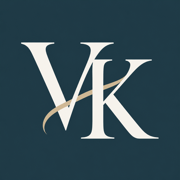
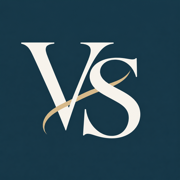
Renamed the bride's name from Krystel to Sam

Changed region(s): [[0.4444, 0.3056, 0.8889, 0.7778]]

diff --git a/app/api/admin/rsvps/route.ts b/app/api/admin/rsvps/route.ts
@@ -11,7 +11,7 @@ export async function GET(req: Request) {
     const pageSize = 500;
     // Fetch only the fields used by the dashboard and exports.
     for (let offset = 0; ; offset += pageSize) {
-      const { data, error } = await getSupabase().from("vincent_krystel")
+      const { data, error } = await getSupabase().from("vincent_sam")
         .select("id,name,message,attending,created_at")
         .order("created_at", { ascending: false }).order("id", { ascending: false })
         .range(offset, offset + pageSize - 1);
@@ -31,7 +31,7 @@ export async function DELETE(req: Request) {
     if (!isRecord(body) || typeof body.id !== "string" || !/^[0-9a-f]{8}-[0-9a-f]{4}-[1-5][0-9a-f]{3}-[89ab][0-9a-f]{3}-[0-9a-f]{12}$/i.test(body.id)) {
       throw new HttpError(400, "Invalid RSVP id");
     }
-    const { data, error } = await getSupabase().from("vincent_krystel").delete().eq("id", body.id).select("id").maybeSingle();
+    const { data, error } = await getSupabase().from("vincent_sam").delete().eq("id", body.id).select("id").maybeSingle();
     if (error) throw error;
     if (!data) return json({ error: "RSVP not found" }, 404);
     return json({ ok: true });

diff --git a/lib/good-to-know.ts b/lib/good-to-know.ts
@@ -6,10 +6,6 @@ export const GOOD_TO_KNOW_NOTES = [
     body: "We have intentionally kept our guest list intimate so that we can celebrate with the people closest to us. Please join us only with the guest named on your invitation.",
   },
   {
-    title: "Can children attend?",
-    body: "We love your little ones, but our celebration will be adults-only, with the exception of immediate family children. Thank you for understanding and helping us keep the day relaxed and intimate.",
-  },
-  {
     title: "What about gifts?",
     body: "Having you with us is the greatest gift. If you would like to bless us as we begin married life, a monetary gift would be warmly appreciated—but please know that your presence means the most.",
   },

diff --git a/lib/event.ts b/lib/event.ts
@@ -6,10 +6,10 @@ const timeZone = "Asia/Manila";
 const formatDate = (options: Intl.DateTimeFormatOptions) => new Intl.DateTimeFormat("en-US", { timeZone, ...options }).format(eventDate);
 
 export const EVENT = {
-  honoree: "Vincent & Krystel",
+  honoree: "Vincent & Sam",
   groom: "Vincent",
-  bride: "Krystel",
-  initials: "V & K",
+  bride: "Sam",
+  initials: "V & S",
   dateLong: formatDate({ weekday: "long", month: "long", day: "numeric", year: "numeric" }),
   dateLabel: formatDate({ month: "long", day: "numeric", year: "numeric" }),
   time: formatDate({ hour: "numeric", minute: "2-digit", hour12: true }),

diff --git a/app/api/rsvp/route.ts b/app/api/rsvp/route.ts
@@ -16,7 +16,7 @@ export async function POST(req: Request) {
     }
     const limited = await rateLimit(req, "rsvp");
     if (limited) return limited;
-    const { error } = await getSupabase().from("vincent_krystel").insert({
+    const { error } = await getSupabase().from("vincent_sam").insert({
       name, message, attending: body.attending,
     });
     if (error) throw error;

diff --git a/README.md b/README.md
@@ -6,14 +6,14 @@ The root page displays the wedding invitation and RSVP form. The admin dashboard
 
 1. Run `npm install`.
 2. Copy `.env.example` to `.env.local` and set the Supabase URL, service role key, and a strong, unique admin password. The placeholder `change-me` is rejected.
-3. For a new database, run `supabase/schema.sql` in the Supabase SQL editor. Existing databases with `public.vincent_krystel` need no migration.
+3. Run `supabase/schema.sql` in the Supabase SQL editor to create or migrate the RSVP table.
 4. Run `npm run dev`.
 
-Open `/` for the invitation and `/admin` for guest responses. The RSVP form writes to the Supabase table `public.vincent_krystel`. The dashboard can filter, export, and delete responses.
+Open `/` for the invitation and `/admin` for guest responses. The RSVP form writes to the Supabase table `public.vincent_sam`. The dashboard can filter, export, and delete responses.
 
 ## Updating an existing deployment
 
-No database migration is required for the existing `public.vincent_krystel` table. The app uses only `id`, `name`, `message`, `attending`, and `created_at`; the database generates `id` and `created_at`. Keep the database row limit at least 500 (the admin fetches pages of 500).
+Run `supabase/schema.sql` in the Supabase SQL editor when deploying this version. It renames the existing `public.vincent_krystel` or `public.rsvp` table to `public.vincent_sam`, preserving responses. If more than one of those tables exists, the migration stops so the data can be reconciled manually. Coordinate the migration and deployment: the previous app expects the old table name and this version expects the new one, so RSVP and admin requests may be unavailable between the two steps. The app uses only `id`, `name`, `message`, `attending`, and `created_at`; the database generates `id` and `created_at`. Keep the database row limit at least 500 (the admin fetches pages of 500).
 
 Admin login now creates an eight-hour, HttpOnly, SameSite=Strict cookie. Production cookies are Secure and require HTTPS. Sign out clears the cookie; rotating `ADMIN_PASSWORD` or the signing secret invalidates all existing sessions. `ADMIN_SESSION_SECRET` can be a dedicated random secret (generate with `openssl rand -hex 32`); otherwise the server-only Supabase service role key is used. Passwords previously saved in browser session storage are removed on the next admin visit. The old `x-admin-password` API header is no longer accepted.
 
